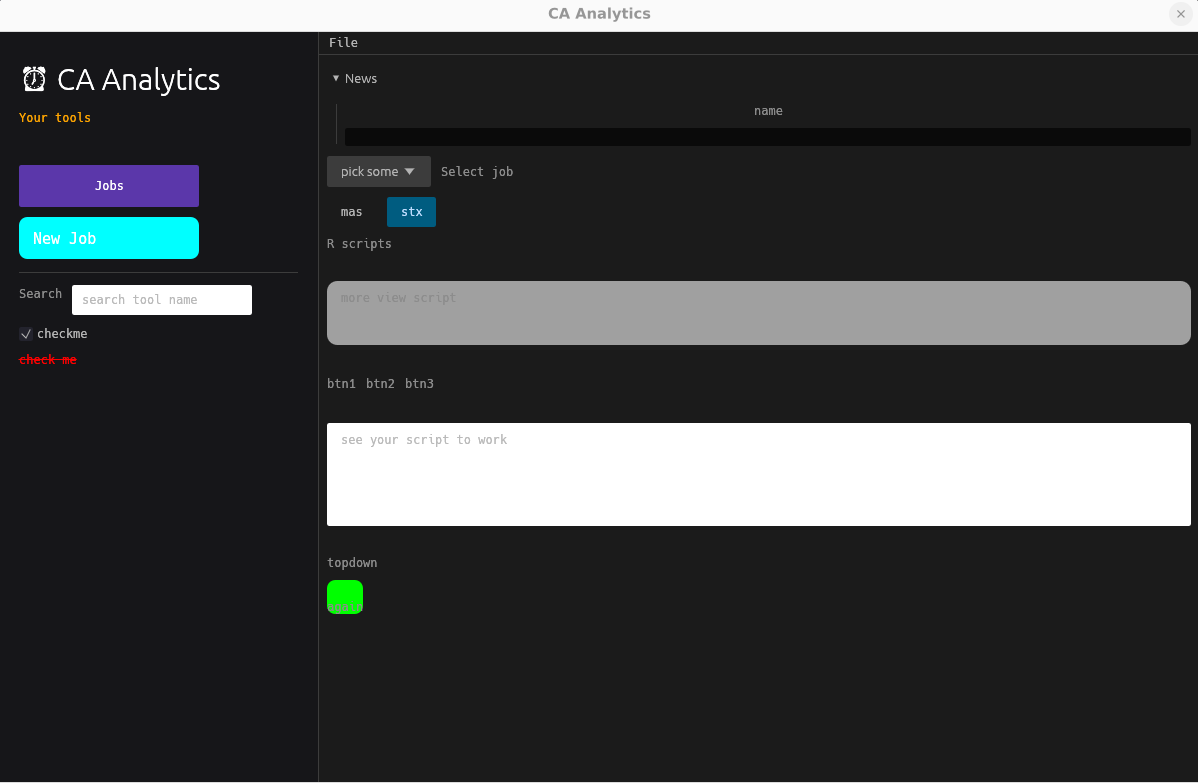
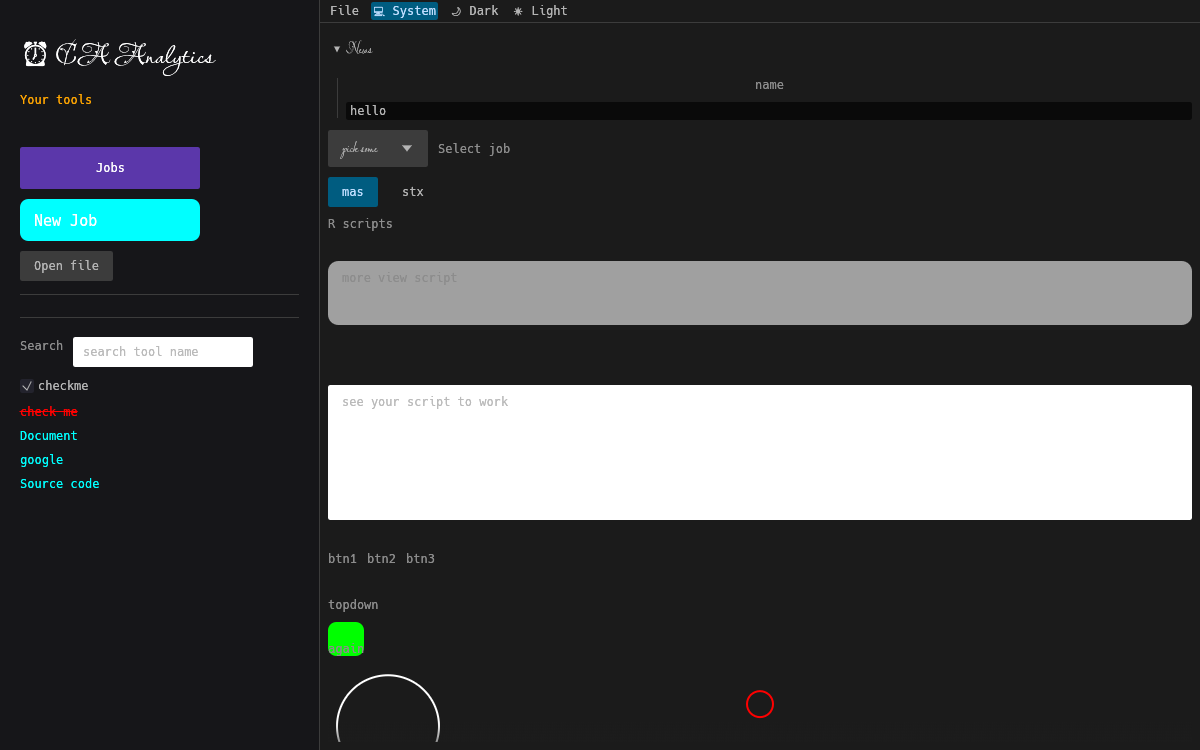
add sys deps

diff --git a/src/job.rs b/src/job.rs
@@ -13,12 +13,14 @@ pub struct MyApp {
 
 impl MyApp {
     pub fn new(ctx: &egui::Context) -> Self {
-        // reset theme
+        // 1. reset theme
         ctx.set_visuals(egui::Visuals::dark());
-        // reset visuals
+        // 2. reset visuals
+        /*
         ctx.request_repaint_after_secs(100.0);
-        ctx.set_visuals(egui::Visuals::dark());
-        // reset font
+        ctx.set_debug_on_hover(true);
+        */
+        // 3. reset font
         let mut myfont = egui::FontDefinitions::default();
         myfont.font_data.insert(
             "my_font".to_owned(),
@@ -36,7 +38,7 @@ impl MyApp {
             .or_default()
             .push("my_font".to_owned());
         ctx.set_fonts(myfont);
-        // reset style
+        // 4. reset style
         ctx.all_styles_mut(|x| {
             x.spacing.item_spacing = egui::vec2(10.0, 10.0);
             x.spacing.button_padding = egui::vec2(14.0, 8.0);
@@ -296,12 +298,13 @@ impl MyApp {
                     let center = resp.rect.center();
                     pat.circle_stroke(center, 50.0, egui::Stroke::new(2.0, egui::Color32::WHITE));
 
-                    // Window
+                    // 3.5 Window
                     egui::Window::new("help me")
                         .anchor(egui::Align2::CENTER_BOTTOM, [0.0, 0.0])
                         .collapsible(true)
                         .resizable(true)
                         .movable(true)
+                        .open(&mut self.message.is_empty())
                         .show(ui, |ui| {
                             if ui.button("win-btn").clicked() {
                                 println!("win-btn clicked");

diff --git a/README.md b/README.md
@@ -1,15 +1,22 @@
-**Sys deps**   
-- something   
-- reduce binary size   
-- file dialogue
-- learning materials 
-- keycode  
-- 
-
 **Usage**   
-- something  
+![outcome](./asset/1.png)   
 
-TODOs:
-1. App function: biz logical
-2. Style and Layout,
-3. 
+**Sys deps**    
+```bash
+for pkg in libgtk-3-0 libgtk-3-dev\ 
+  libx11-dev libxcb1-dev libxrandr-dev libxi-dev libxcursor-dev libxcb-render0-dev libxcb-shape0-dev libxcb-xfixes0-dev libssl-dev\ 
+  libwayland-dev libxkbcommon-dev libxkbcommon-x11-0; do
+  dpkg -s "$pkg" &>/dev/null && echo "OK      $pkg" || echo "MISSING $pkg"
+done
+```
+
+**Learning materials**  
+[egui: note](https://www.youtube.com/watch?v=hGsqR3DK5Do)  
+[egui: img](https://www.youtube.com/watch?v=m4iwY8di9DA)   
+[egui: svg](https://www.youtube.com/watch?v=DJVKNRN5avo)   
+[egui: game](https://www.youtube.com/watch?v=7Cf1oqOi1js&t=497s)   
+[egui: rss](https://www.youtube.com/watch?v=1sPXcgonffQ)   
+[egui: news](https://www.youtube.com/watch?v=NtUkr_z7l84)   
+[egui: plot](https://www.youtube.com/watch?v=OSEf-z0qTFE&t=1s)   
+[egui: plot](https://www.youtube.com/watch?v=zUvHkkkrmIY&t=1438s)   
+
